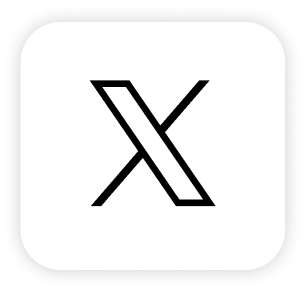
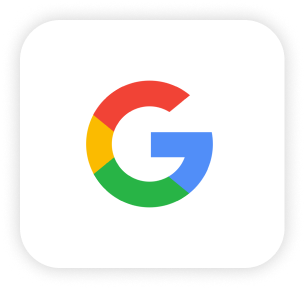
chnages in signin signup

Changed region(s): [[0.2656, 0.25, 0.7082, 0.75]]

diff --git a/src/Pages/Signin.js b/src/Pages/Signin.js
@@ -66,7 +66,7 @@ function SignIn() {
                 Forgot Your Password?
               </Link>
             </div>
-            <div   className="mt-2 w-fit px-2 py-2 font-semibold text-white bg-blue-600 rounded-lg hover:bg-blue-700 focus:outline-none focus:ring-2 focus:ring-blue-400"
+            <div   className="mt-2 w-fit pl-4 pr-4 px-2 py-2  text-white bg-blue-600 rounded-lg hover:bg-blue-700 focus:outline-none focus:ring-2 focus:ring-blue-400"
             >
             <Link
               to="/login"
@@ -83,11 +83,11 @@ function SignIn() {
           </div>
           
           <div className="flex items-center justify-center space-x-4">
-            <button className="flex items-center justify-center w-10 h-10 bg-gray-8 border border-gray-300 rounded-lg">
-              <img src="../img.png" alt="x Logo" className="w-10 h-10"/>
+          <button className="flex items-center justify-center w-16 h-16  border-gray-300 rounded-lg">
+              <img src="../img.png" alt="x Logo" className="w-16 h-16"/>
             </button>
-            <button className="flex items-center justify-center w-10 h-10 bg-gray-10 border border-gray-300 rounded-lg">
-              <img src="../img1.png" alt="Google Logo" className="w-6 h-6"/>
+            <button className="flex items-center justify-center w-16 h-16  border-gray-300 rounded-lg">
+              <img src="../img1.png" alt="Google Logo" className="w-16 h-16"/>
             </button>
           </div>
           

diff --git a/src/Pages/Signup.js b/src/Pages/Signup.js
@@ -70,14 +70,23 @@ function SignUpPage() {
               By creating an account, you agree to the <a href="#" className="text-blue-600">Terms of use</a> and <a href="#" className="text-blue-600">Privacy Policy</a>.
             </p>
 
+         
+            <div className="flex items-center space-x-4">
             <button
               type="submit"
-              className="w-full bg-blue-600 text-white py-2 rounded-lg font-semibold hover:bg-blue-700 transition-colors"
+              className="p-4 bg-blue-600 text-white py-2 rounded-lg font-semibold hover:bg-blue-700 transition-colors"
             >
               Create An Account
             </button>
+            <button className="flex items-center justify-center w-16 h-16  border-gray-300 rounded-lg">
+              <img src="../img.png" alt="x Logo" className="w-16 h-16"/>
+            </button>
+            <button className="flex items-center justify-center w-16 h-16  border-gray-300 rounded-lg">
+              <img src="../img1.png" alt="Google Logo" className="w-16 h-16"/>
+            </button>
+          </div>
 
-            <p className="text-center text-gray-700 mt-4">
+            <p className=" text-xs text-gray-700 mt-4">
              Already Have a Account? <a href="#" className="text-blue-600">Sign In</a>
             </p>
           </form>
